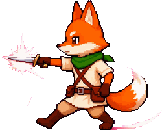
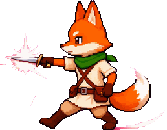
32명 캐릭터별 무기 공격 6프레임 적용, 공격 이펙트를 자기 프레임에 귀속
Claude-Session: https://claude.ai/code/session_011TTrRhY2HqYZYgMYy1Cqde

diff --git a/art/sheet.py b/art/sheet.py
@@ -119,7 +119,7 @@ def components(mask):
     return label, info
 
 
-def split_strip(strip: Image.Image, n: int = 6):
+def split_strip(strip: Image.Image, n: int = 6, effects_left: bool = False):
     """Split a strip into n frames by blobs instead of straight cuts, so a hammer or cape that reaches into the
     neighbour's column stays with its own figure. Falls back to column cuts when figures touch each other."""
     small = strip.resize((strip.width // 3, strip.height // 3), Image.LANCZOS)
@@ -138,6 +138,19 @@ def split_strip(strip: Image.Image, n: int = 6):
             continue
         mid = (info[i][1] + info[i][2]) / 2
         owner[i] = min(range(n), key=lambda k: abs(centres[k] - mid))
+        if effects_left and i not in bodies:
+            # Loose pieces (impact flashes, projectiles) go to the figure whose edge they are closest to, measured
+            # edge to edge: an impact flash sits just left of its attacker even when that attacker's centre is
+            # farther away than the previous figure's.
+            lo, hi = info[i][1], info[i][2]
+            def gap(k):
+                b0, b1 = info[bodies[k]][1], info[bodies[k]][2]
+                return max(0, b0 - hi, lo - b1)
+            owner[i] = min(range(n), key=gap)
+            # Attackers face left: a loose piece to the right of its figure's centre is the next figure's flash.
+            k = owner[i]
+            if (lo + hi) / 2 > centres[k] and k + 1 < n:
+                owner[i] = k + 1
     frames = []
     for k in range(n):
         m = (owner[label] == k) & (label > 0)
@@ -306,10 +319,10 @@ def slice_work_strips(char: str, variant: str = "a"):
     return done
 
 
-def slice_strip_to(src: Path, out_dir: Path, prefix: str, height: int, by: str = "max"):
+def slice_strip_to(src: Path, out_dir: Path, prefix: str, height: int, by: str = "max", effects_left: bool = False):
     """Generic 1x6 strip -> <prefix>_{0..5}.png scaled so the tallest (or shortest) frame is `height` px."""
     strip = Image.open(src).convert("RGB")
-    cells = split_strip(strip)
+    cells = split_strip(strip, effects_left=effects_left)
     if cells is None:
         xs = cuts(strip, 6, axis=1)
         cells = []
@@ -333,7 +346,7 @@ def slice_attacks():
             out = ROOT / "out/frames" / c["id"]
             stand = Image.open(out / "walk_down_2.png").height
             # Weapons stick out sideways, not up: match by the shortest frame so the body keeps walking size.
-            slice_strip_to(src, out, "attack", stand, by="min")
+            slice_strip_to(src, out, "attack", stand, by="min", effects_left=True)
             print(c["id"], "ok")
 
 
